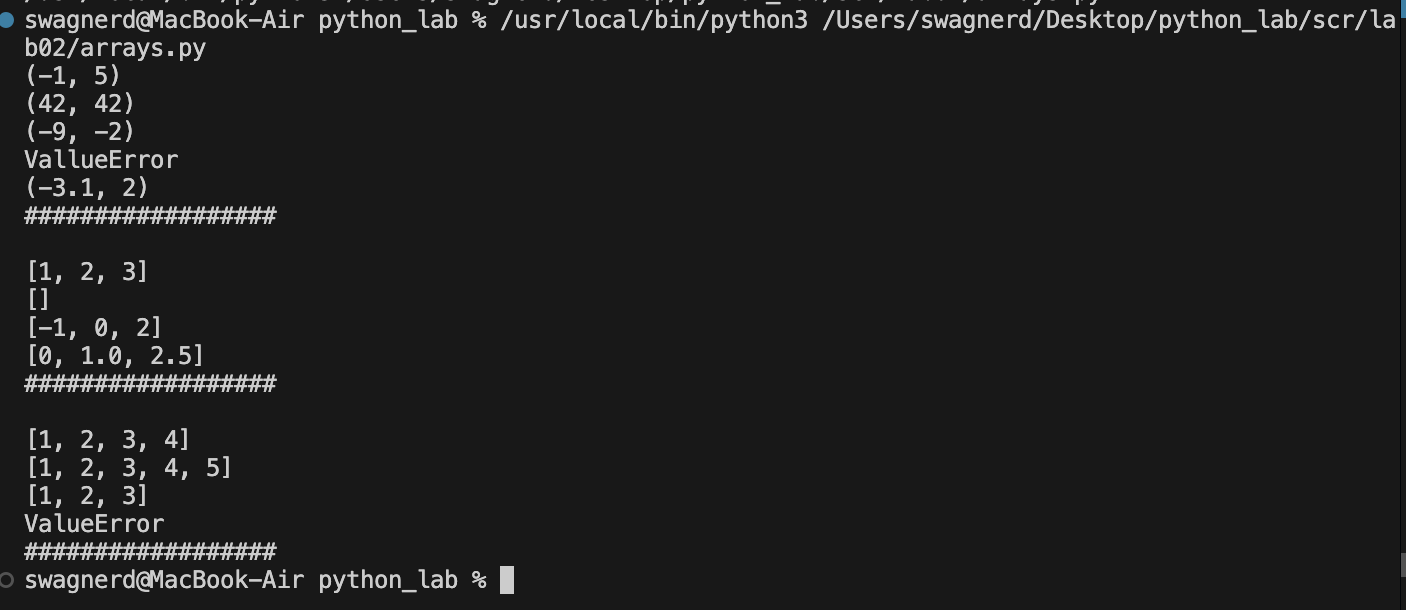
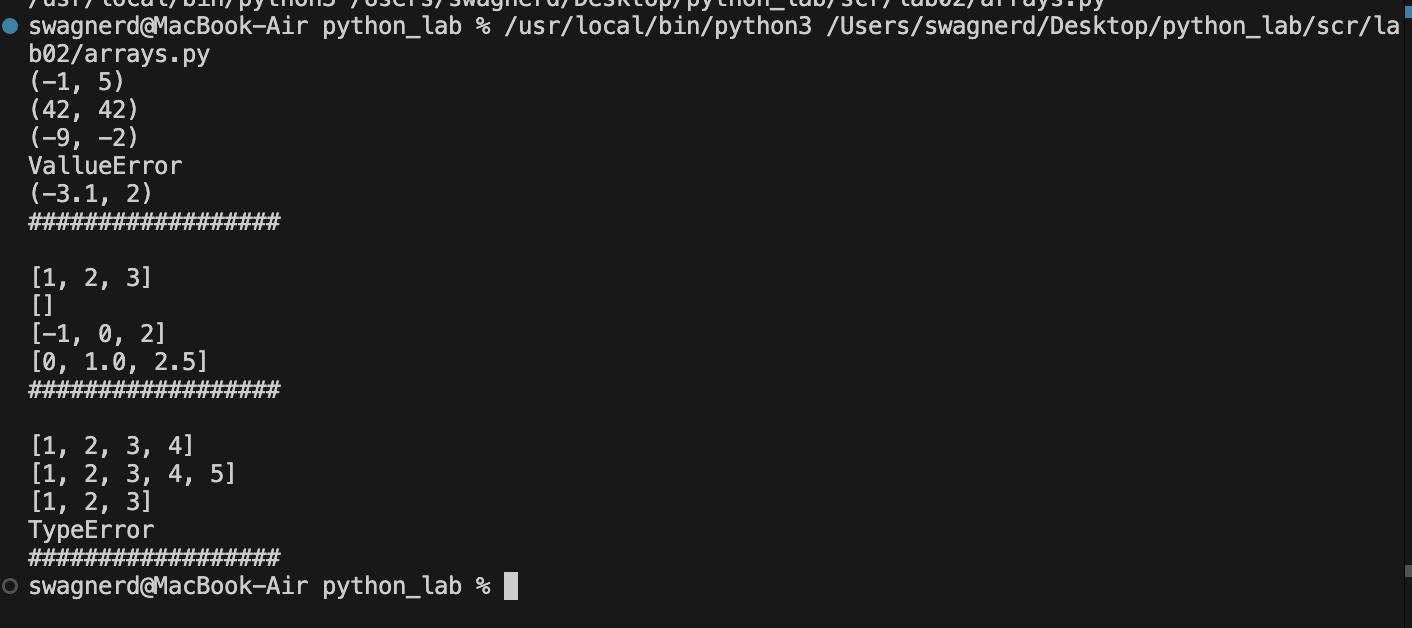
.

diff --git a/scr/lab02/arrays.py b/scr/lab02/arrays.py
@@ -22,7 +22,7 @@ def flatten(mat: list[list | tuple]) -> list:
     res = []
     for row in mat:
         if not isinstance(row,(list,tuple)):
-            return 'ValueError'
+            return 'TypeError'
         if isinstance(row,(list,tuple)):
             res.extend(row)
     return res

diff --git a/scr/lib/rvan.py b/scr/lib/rvan.py
@@ -1,0 +1,4 @@
+def x(mat: list[list[float | int]]) -> list[float]:#проверка на рванную функцию
+    rvan = [len(x) for x in mat]
+    if len(set(rvan)) != 1:
+        return 'ValueError' 

diff --git a/README.md b/README.md
@@ -124,7 +124,7 @@ def flatten(mat: list[list | tuple]) -> list:
     res = []
     for row in mat:
         if not isinstance(row,(list,tuple)):
-            return 'ValueError'
+            return 'TypeError'
         if isinstance(row,(list,tuple)):
             res.extend(row)
     return res
